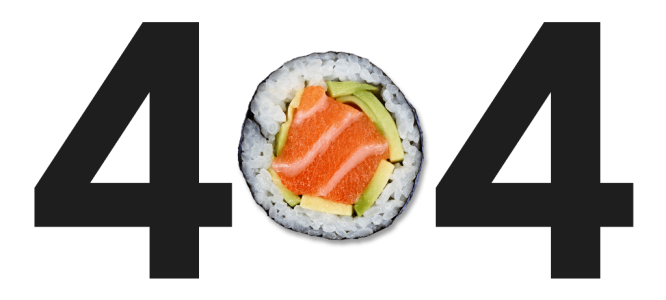
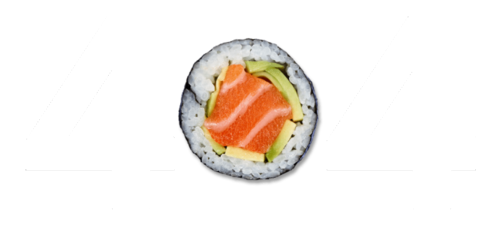
Rinominato img '404_white' in '404' e relative modifiche html

Changed region(s): [[0.03, 0.0622, 0.36, 0.9333], [0.63, 0.0622, 0.96, 0.9333]]

diff --git a/Sito/back/errore404.html b/Sito/back/errore404.html
@@ -35,7 +35,7 @@
 
         <div id="errore" class="content">
 			<h1>Errore</h1>
-			<img src="../img/404_white.png" alt="404" />
+			<img src="../img/404.png" alt="404" />
 			<p id="testo">Ci scusiamo per il disagio, la pagina che stai cercando non l'abbiamo trovata.<br />Se vuoi tornare alla pagina principale <a href="home_admin.html">clicca qui</a>, altrimenti spostati tramite il menù di navigazione.</p>
         </div>
 

diff --git a/Sito/errore404.html b/Sito/errore404.html
@@ -45,7 +45,7 @@
 
         <div id="errore" class="content">
 			<h1>Errore</h1>
-			<img src="img/404_white.png" alt="404" />
+			<img src="img/404.png" alt="404" />
 			<p id="testo">Ci scusiamo per il disagio, la pagina che stai cercando non l'abbiamo trovata.<br />Se vuoi tornare alla pagina principale <a href="home_utente.html">clicca qui</a>, altrimenti spostati tramite il menù di navigazione.</p>
         </div>
 
